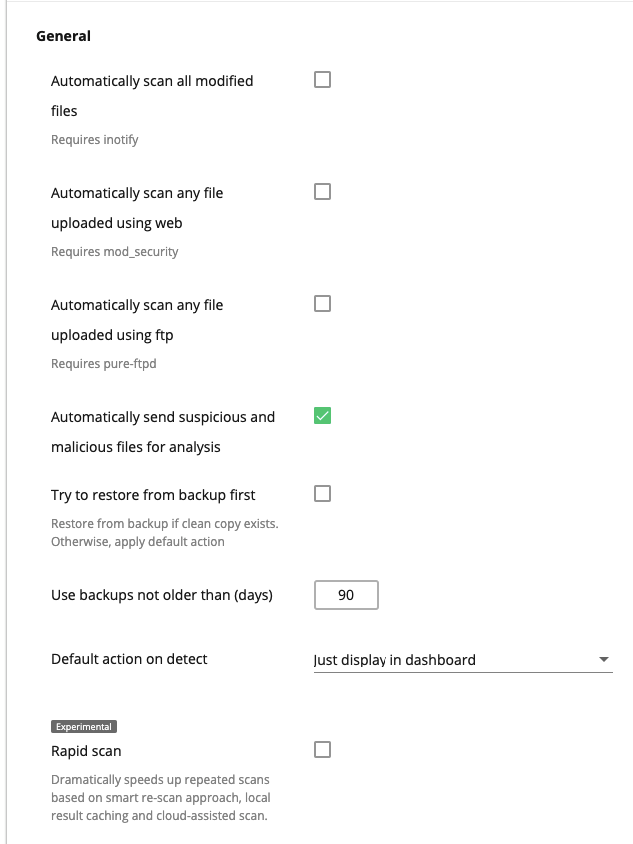
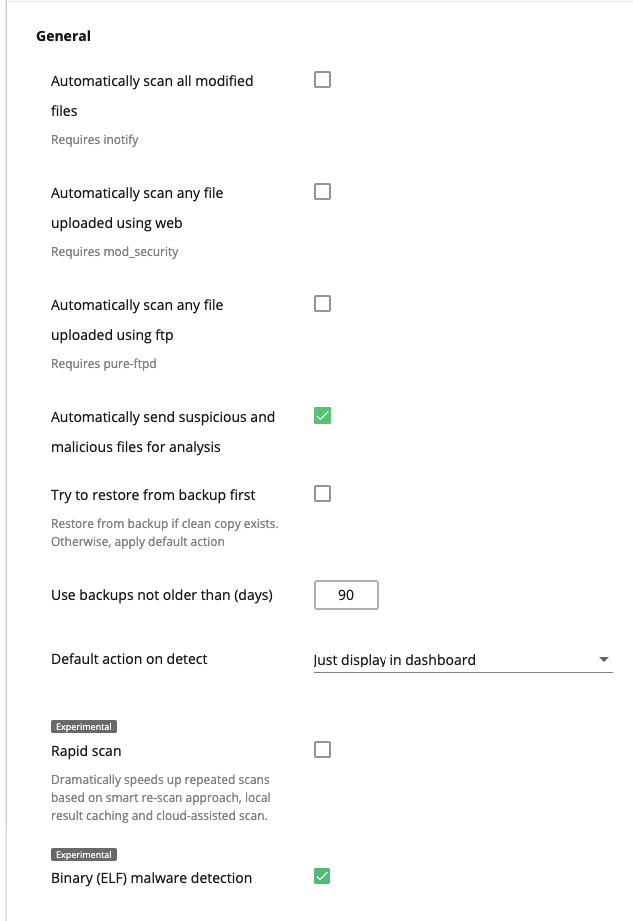
Imunify360 4.4 release updates
1. PT-1330:
* added "Privilege escalation detection & protection"
* added "SMTP Blocking"
* added "PAM"
* added "Binary (ELF) malware detection"
* reworked "DoS Protection"
* reworked "WebShield"
2. PT-1329:
* added "MOD_SEC" config setting description
* added "detect_elf" config setting description
* added "WEBSHIELD enable: true" config setting description
* added "PAM" config setting description
* added "KERNELCARE"
3. PT-1254
* changed the note for the "check-domains" command

diff --git a/docs/dashboard/README.md b/docs/dashboard/README.md
@@ -1046,11 +1046,13 @@ Go to <span class="notranslate">_Imunify360 → Settings → General_</span>. Th
 * <span class="notranslate">[Installation](/dashboard/#installation)</span>
 * <span class="notranslate">[WAF Settings](/dashboard/#waf-settings)</span>
 * <span class="notranslate">[DoS Protection](/dashboard/#dos-protection)</span>
+* <span class="notranslate">[SMTP Blocking](/dashboard/#smtp-blocking)</span>
 * <span class="notranslate">[3-rd Party Integration](/dashboard/#_3-rd-party-integration)</span>
 * <span class="notranslate">[Auto White List](/dashboard/#auto-white-list)</span>
 * <span class="notranslate">[Incidents Logging](/dashboard/#incidents-logging)</span>
 * <span class="notranslate">[WebShield](/dashboard/#webshield)</span>
 * <span class="notranslate">[OSSEC](/dashboard/#ossec)</span>
+* <span class="notranslate">[PAM](/dashboard/#pam)</span>
 * <span class="notranslate">[Error Reporting](/dashboard/#error-reporting)</span>
 * <span class="notranslate">[Contact Details](/dashboard/#contact-details)</span>
 
@@ -1109,6 +1111,27 @@ To install or uninstall KernelCare click on a button related. Please find additi
 ::: tip Note
 KernelCare is free on the servers with Imunify360 installed.
 :::
+
+#### Privilege escalation detection & protection <sup><Badge text="beta" type="warn"/> <Badge text="4.4+"/></sup>
+
+The KernelCare extension for Imunify360 allows tracing malicious invocations to detect privilege escalation attempts.
+
+Starting from Imunify360 version 4.4, you can find these attempts on the [Incidents tab](/dashboard/#incidents) (as part of the OSSEC log). The incidents can be seen by filtering events with the `EDF` label. 
+
+To enable the feature, tick the <span class="notranslate">_Privilege escalation detection & protection_</span> checkbox.
+
+![](/images/pep_kernelcare.png)
+
+Or you can enable it via CLI using the following command:
+
+<div class="notranslate">
+
+```
+imunify360-agent config update '{"KERNELCARE": {"edf": true}}'
+```
+</div>
+
+
 Click <span class="notranslate">_Save changes_</span> button on the bottom of the section to save changes.
 
 #### WAF Settings
@@ -1123,8 +1146,16 @@ Click <span class="notranslate">_Save changes_</span> button on the bottom of th
 
 #### DoS Protection
 
-<span class="notranslate">DoS Protection</span> section allows to enable or disable DoS protection. DoS protection works by counting connections from each remote IP address per local port separately.
-Tick checkbox <span class="notranslate">_Enable Dos Protection_</span>.
+<span class="notranslate">DoS Protection</span> section allows to enable or disable DoS protection. DoS protection works by counting connections from each remote IP address per local port separately. Starting from Imunify360 4.4 beta it is enabled by default for all new installations.
+To enable/disable it, tick the <span class="notranslate">_Enable Dos Protection_</span> checkbox. Or you can enable it using the following CLI command:
+
+<div class="notranslate">
+
+```
+imunify360-agent config update '{"DOS": {"enabled": true}}'
+```
+</div>
+
 It is possible to configure how Imunify360 will behave:
 
 * <span class="notranslate">_Max Connections_</span>– allows to setup the number of simultaneous connections allowed before IP will be blocked. Cannot be set lower than 100.
@@ -1133,6 +1164,19 @@ It is possible to configure how Imunify360 will behave:
 ![](/images/DosProtection.png)
 
 Click <span class="notranslate">_Save changes_</span> button on the bottom of the section to save changes.
+
+#### SMTP Blocking
+
+It allows to block all outgoing mail traffic coming through the user-defined SMTP ports. 
+
+![](/images/smtp_blocking.png)
+
+* Tick <span class="notranslate">_Block SMTP Traffic_</span> to enable/disable <span class="notranslate">SMTP Blocking</span> feature.
+* List comma-separated ports in the <span class="notranslate">_SMTP Ports to handle_</span> text area.
+* List comma-separated unix users which will never be blocked in the <span class="notranslate">_Users to ignore_</span> text area.
+* List comma-separated unix groups will never be blocked in the <span class="notranslate">_Groups to ignore_</span> text area.
+* Tick <span class="notranslate">_Allow Local SMTP Only_</span> to allow  users to send outgoing mail traffic through the local ports.
+* Tick <span class="notranslate">_Redirect SMTP Traffic_</span> to enable outgoing mail traffic forwarding to the local ports automatically.
 
 #### 3-rd Party Integration
 
@@ -1191,7 +1235,22 @@ Click <span class="notranslate">_Save changes_</span> button on the bottom of th
 	
 #### WebShield
 
-Tick <span class="notranslate">_Detect IPs behind CDN_</span> checkbox to allow to recognize and block IPs with suspicious activity behind supported CDN providers.
+<span class="notranslate">_Detect IPs behind CDN_</span> feature allows to recognize and block IPs with suspicious activity behind supported CDN providers.
+
+Starting from Imunify360 4.4 beta it is enabled by default for all new installations.
+
+To enable/disable it, tick the <span class="notranslate">_Detect IPs behind CDN_</span> checkbox.
+
+![](/images/webshield.png)
+
+Or you can enable it using the following CLI command:
+
+<div class="notranslate">
+
+```
+imunify360-agent config update '{"WEBSHIELD": {"known_proxies_support": true}}'
+```
+</div>
 
 Supported CDN providers:
 
@@ -1201,8 +1260,6 @@ Supported CDN providers:
 * KeyCDN
 * Dartspeed.com
 * QUIC.cloud CDN
-	
-![](/images/webshield.png)
 
 Click <span class="notranslate">_Save changes_</span> button on the bottom of the section to save changes.
 
@@ -1215,6 +1272,23 @@ The purpose of the feature is significantly reducing false positive rate while i
 
 Click <span class="notranslate">_Save changes_</span> button on the bottom of the section to save changes.
 
+#### PAM <sup><Badge text="beta" type="warn"/> <Badge text="4.4+"/></sup>
+
+Tick the <span class="notranslate">_PAM brute-force attack protection_</span> checkbox to enable an advanced brute-force protection technique based on the combination of PAM module authorization, RBL check and IP blacklisting. 
+	
+![](/images/pam_module.png)
+
+Or you can enable it via CLI with the following command:
+
+<div class="notranslate">
+
+```
+imunify360-agent config update '{"PAM": {"enabled": true}}'
+```
+</div>
+
+Click <span class="notranslate">_Save changes_</span> button on the bottom of the section to save changes.
+
 #### Error Reporting
  
 Tick <span class="notranslate">_Enable Sentry error reporting_</span> checkbox to send reports to Imunify360 error reports server.
@@ -1223,11 +1297,7 @@ Tick <span class="notranslate">_Enable Sentry error reporting_</span> checkbox t
 
 Click <span class="notranslate">_Save changes_</span> button on the bottom of the section to save changes.
 
-#### **Contact Details**
-
-:::tip Note
-Imunify360 version 4.1 Beta
-:::
+#### Contact Details <sup><Badge text="4.1+"/></sup>
  
 Type your email into the <span class="notranslate">_Email_</span> field to receive email reports about critical issues, security alerts or system misconfigurations detected on your servers.
 
@@ -1300,10 +1370,11 @@ Those options may be hidden for end-user if Cleanup is disabled in Features Mana
 :::
 
 * <span class="notranslate">_RapidScan_</span> – dramatically speeds up repeated scans based on smart re-scan approach, local result caching and cloud-assisted scan. When you first enable the RapidScan feature, the first scan will run as before. But subsequent scans will see a dramatic speed improvement, anywhere between 5 to 20 times faster. You can find details [here](/features/#rapidscan).
+* <span class="notranslate">_Binary (ELF) malware detection_</span> <sup>Beta</sup> <sup>4.4+</sup> – this option allows to scans user home directories for malware. It’s disabled in Imunify360 version 4.4 by default.
 
 Tick required checkboxes and click <span class="notranslate">_Save changes_</span> button.
 
-#### **Background Scanning**
+#### Background Scanning
 
 Allows to set up automatic, scheduled, background scanning of user accounts.
 

diff --git a/docs/config_file_description/README.md b/docs/config_file_description/README.md
@@ -39,6 +39,12 @@ In the config file it is possible to set up Imunify360 configuration. The follow
 <tr><td><span class="notranslate">limit: 100000</span></td><td># how many incidents should be stored in Imunify360 log file</td></tr>
 <tr><td><span class="notranslate">ui_autorefresh_timeout: 10</span></td><td># set auto refresh time for incidents in user interface</td></tr>
 <tr>
+<th align="left"><span class="notranslate">MOD_SEC:</span></th>
+<th align="left"><span class="notranslate"># defines ModSecurity settings</span></th>
+</tr>
+<tr>
+<td width="250px;"><span class="notranslate">ruleset: FULL</span></td><td># defines what ruleset to use: <span class="notranslate">FULL</span> (default value) or <span class="notranslate">MINIMAL</span>. If the amount of RAM on the server is less than 2.1GB, the ruleset value is automatically set to <span class="notranslate">MINIMAL</span>.</td></tr>
+<tr>
 <th colspan="2" align="left"><span class="notranslate">MOD_SEC_BLOCK_BY_SEVERITY:</span></th></tr>
  <tr><td><span class="notranslate">enable: true</span></td><td># allows to enable or disable option that moves IPs to <span class="notranslate">Gray List</span> if the ModSecurity rule is triggered</td></tr>
 <tr><td><span class="notranslate">max_incidents: 2</span></td><td># set a number of repeats of the ModSecurity incident from the same IP for adding it to <span class="notranslate">Gray List</span></td></tr>
@@ -82,6 +88,8 @@ that were uploaded via http/https. Note that it requires <a href="https://modsec
 <td># max file size to scan in the cloud-assisted (by hashes) mode; value is set in bytes</td></tr>
 <tr><td><span class="notranslate">max_mrs_upload_file: 10485760</span></td>
 <td># max file size to upload to CloudLinux malware research service; value is set in bytes</td></tr>
+<tr><td><span class="notranslate">detect_elf: false</span></td>
+<td>#  enable (<span class="notranslate">true</span>) or disable (<span class="notranslate">false</span>) (default value) binary (ELF) malware detection</td></tr>
 <tr>
 <th colspan="2" align="left"><span class="notranslate">CAPTCHA:</span></th></tr>
 <tr><td><span class="notranslate">cert_refresh_timeout: 3600</span></td>
@@ -132,6 +140,8 @@ to request CAPTCHA again</td></tr>
 <th colspan="2" align="left"><span class="notranslate">WEBSHIELD:</span></th></tr>
 <tr><td><span class="notranslate">known_proxies_support: true</span></td>
 <td># enable CDN support, treat IPs behind CDN as any other IPs</td></tr>
+<tr><td><span class="notranslate">enable: true</span></td>
+<td># enable (true) (default value) or disable (false) WebShield</td></tr>
 <tr>
 <th colspan="2" align="left"><span class="notranslate">PROACTIVE_DEFENСE:</span></th></tr>
 <tr><td><span class="notranslate">blamer: false</span></td>
@@ -154,6 +164,16 @@ to request CAPTCHA again</td></tr>
 <td># when the background scan shall start, hour. Can be from 0 to 23, the default value is 3</td></tr>
 <tr><td><span class="notranslate">interval: none</span></td>
 <td># interval of scan. Supported values: strings <span class="notranslate">`none`</span>, <span class="notranslate">`day`</span>, <span class="notranslate">`week`</span>, <span class="notranslate">`month`</span>, the default value is <span class="notranslate">`none`</span> (no scan)</td></tr>
+<tr>
+<th align="left"><span class="notranslate">PAM:</span></th>
+<th align="left"># effective way to prevent brute-force attacks against FTP/SSH</th></tr>
+<tr><td><span class="notranslate">enable: false</span></td>
+<td># enable (<span class="notranslate">true</span>) or disable (<span class="notranslate">false</span>) (default value) PAM brute-force attack protection</td></tr>
+<tr>
+<th align="left"><span class="notranslate">KERNELCARE:</span></th>
+<th align="left"># KernelCare extension for Imunify360 which allows tracing malicious invocations to detect privilege escalation attempts</th></tr>
+<tr><td><span class="notranslate">edf: false</span></td>
+<td># enable (<span class="notranslate">true</span>) or disable (<span class="notranslate">false</span>) (default value) exploit detection framework</td></tr>
 </table>
 
 <span class="notranslate">Active Response</span> is an ossec-driven (IDS) feature of Imunify360 which has been re-engineered to make it capable of blocking access to a specific server port being attacked.

diff --git a/docs/command_line_interface/README.md b/docs/command_line_interface/README.md
@@ -250,7 +250,7 @@ imunify360-agent blocked-port add 5555:tcp --comment “Some comment”
 Allows to send domains list to check on Imunify360 central server. This command requires cPanel. After domains checked, the results is available via command <span class="notranslate">`infected-domains`</span>.
 
 ::: tip Note
-The server requires some time for checking and the results may not be ready immediately.
+<span class="notranslate">`check-domains`</span> command may take a few minutes to complete.
 :::
 Usage:
 
